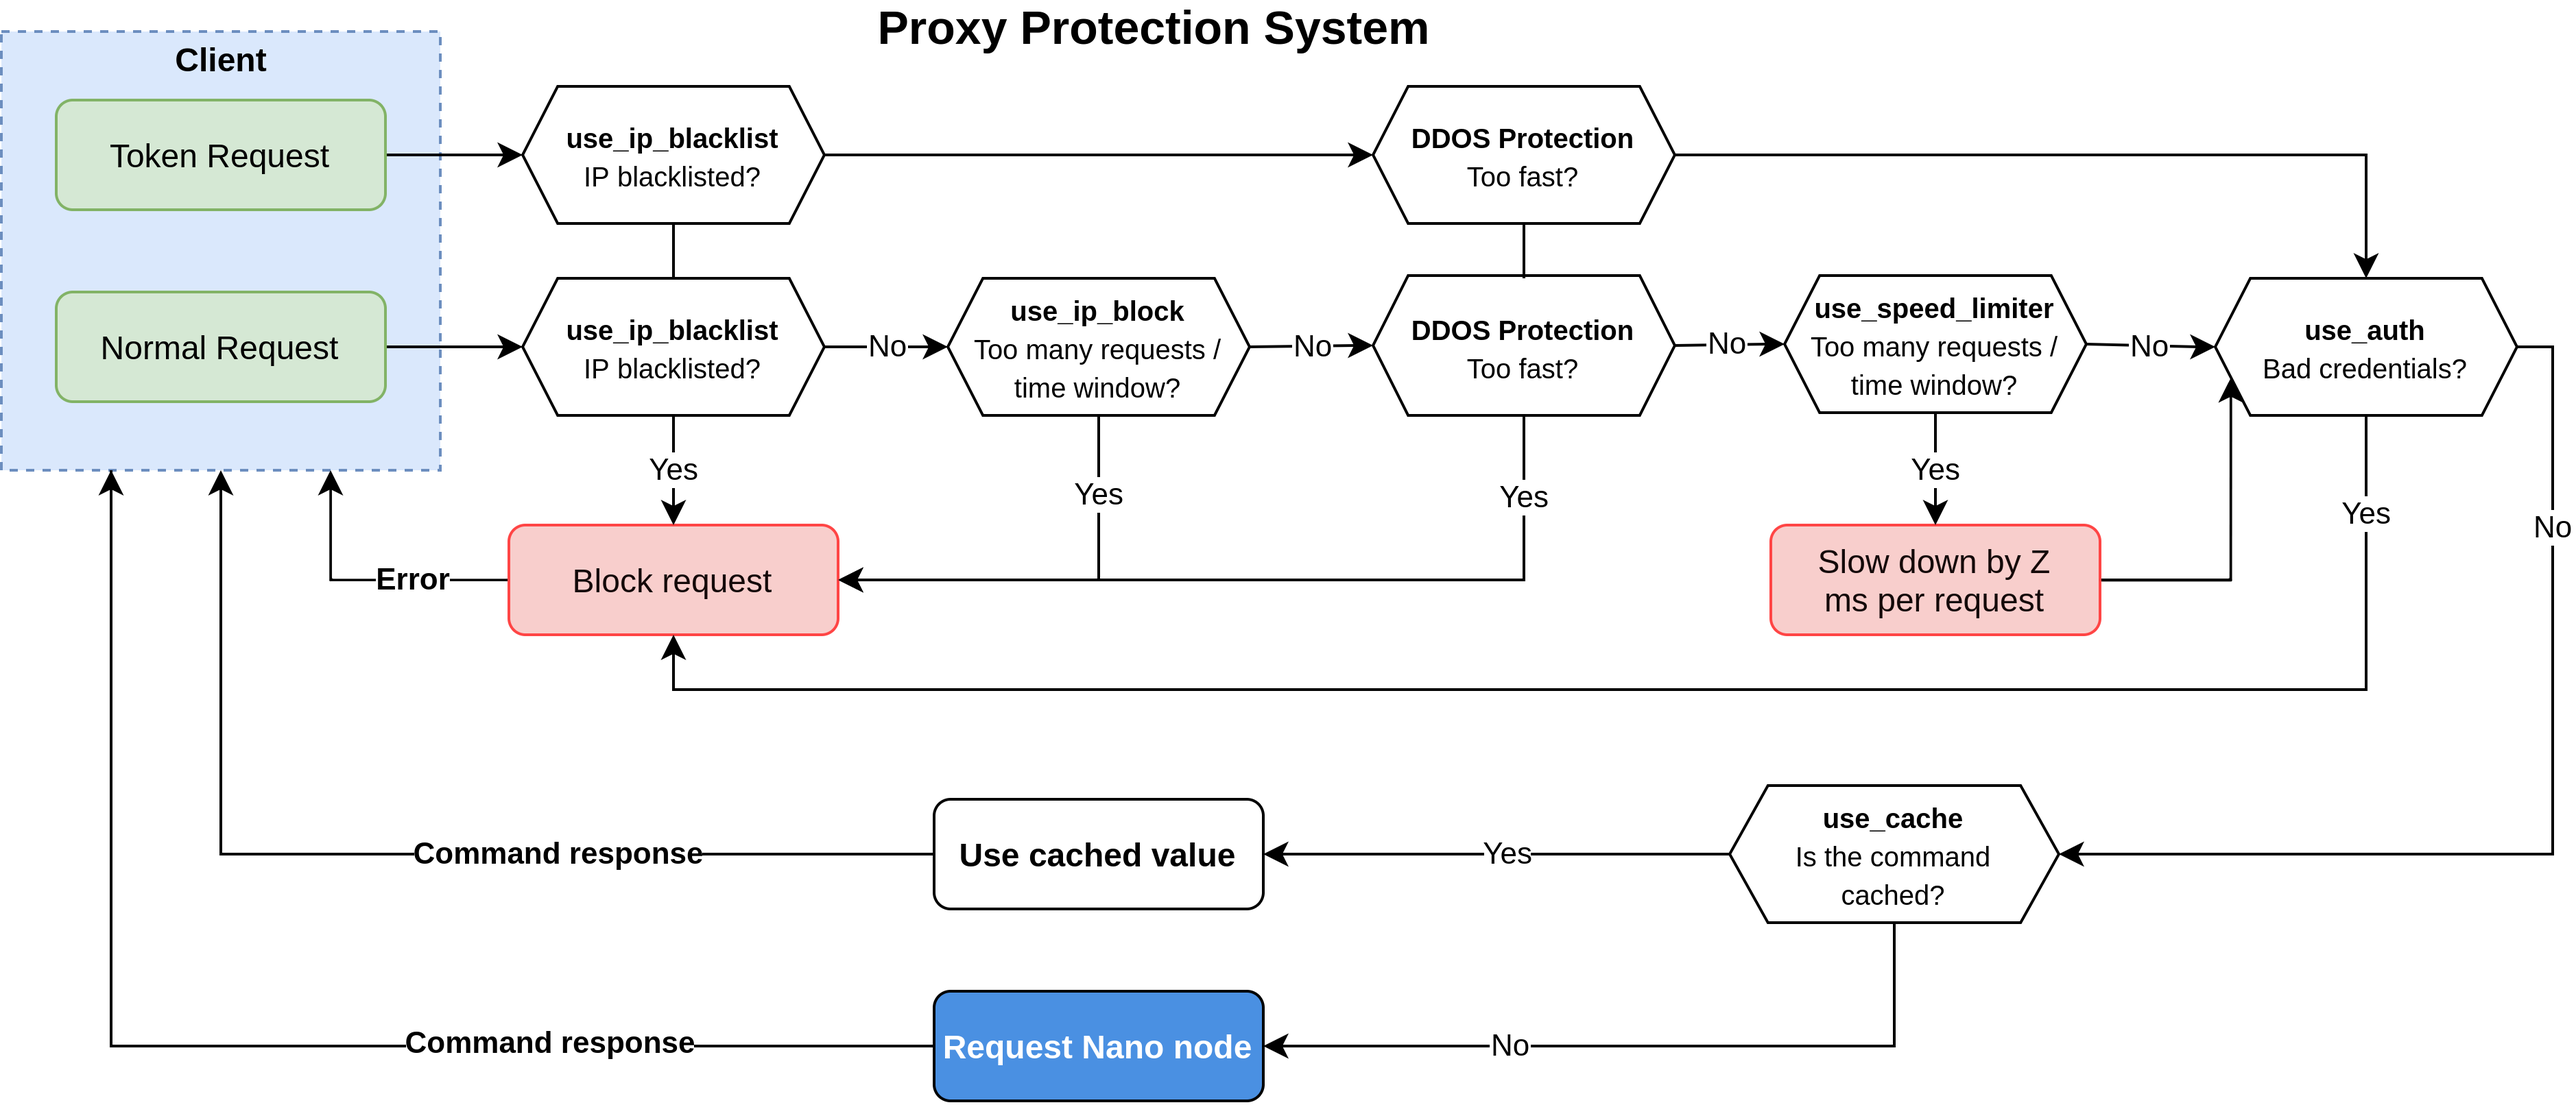
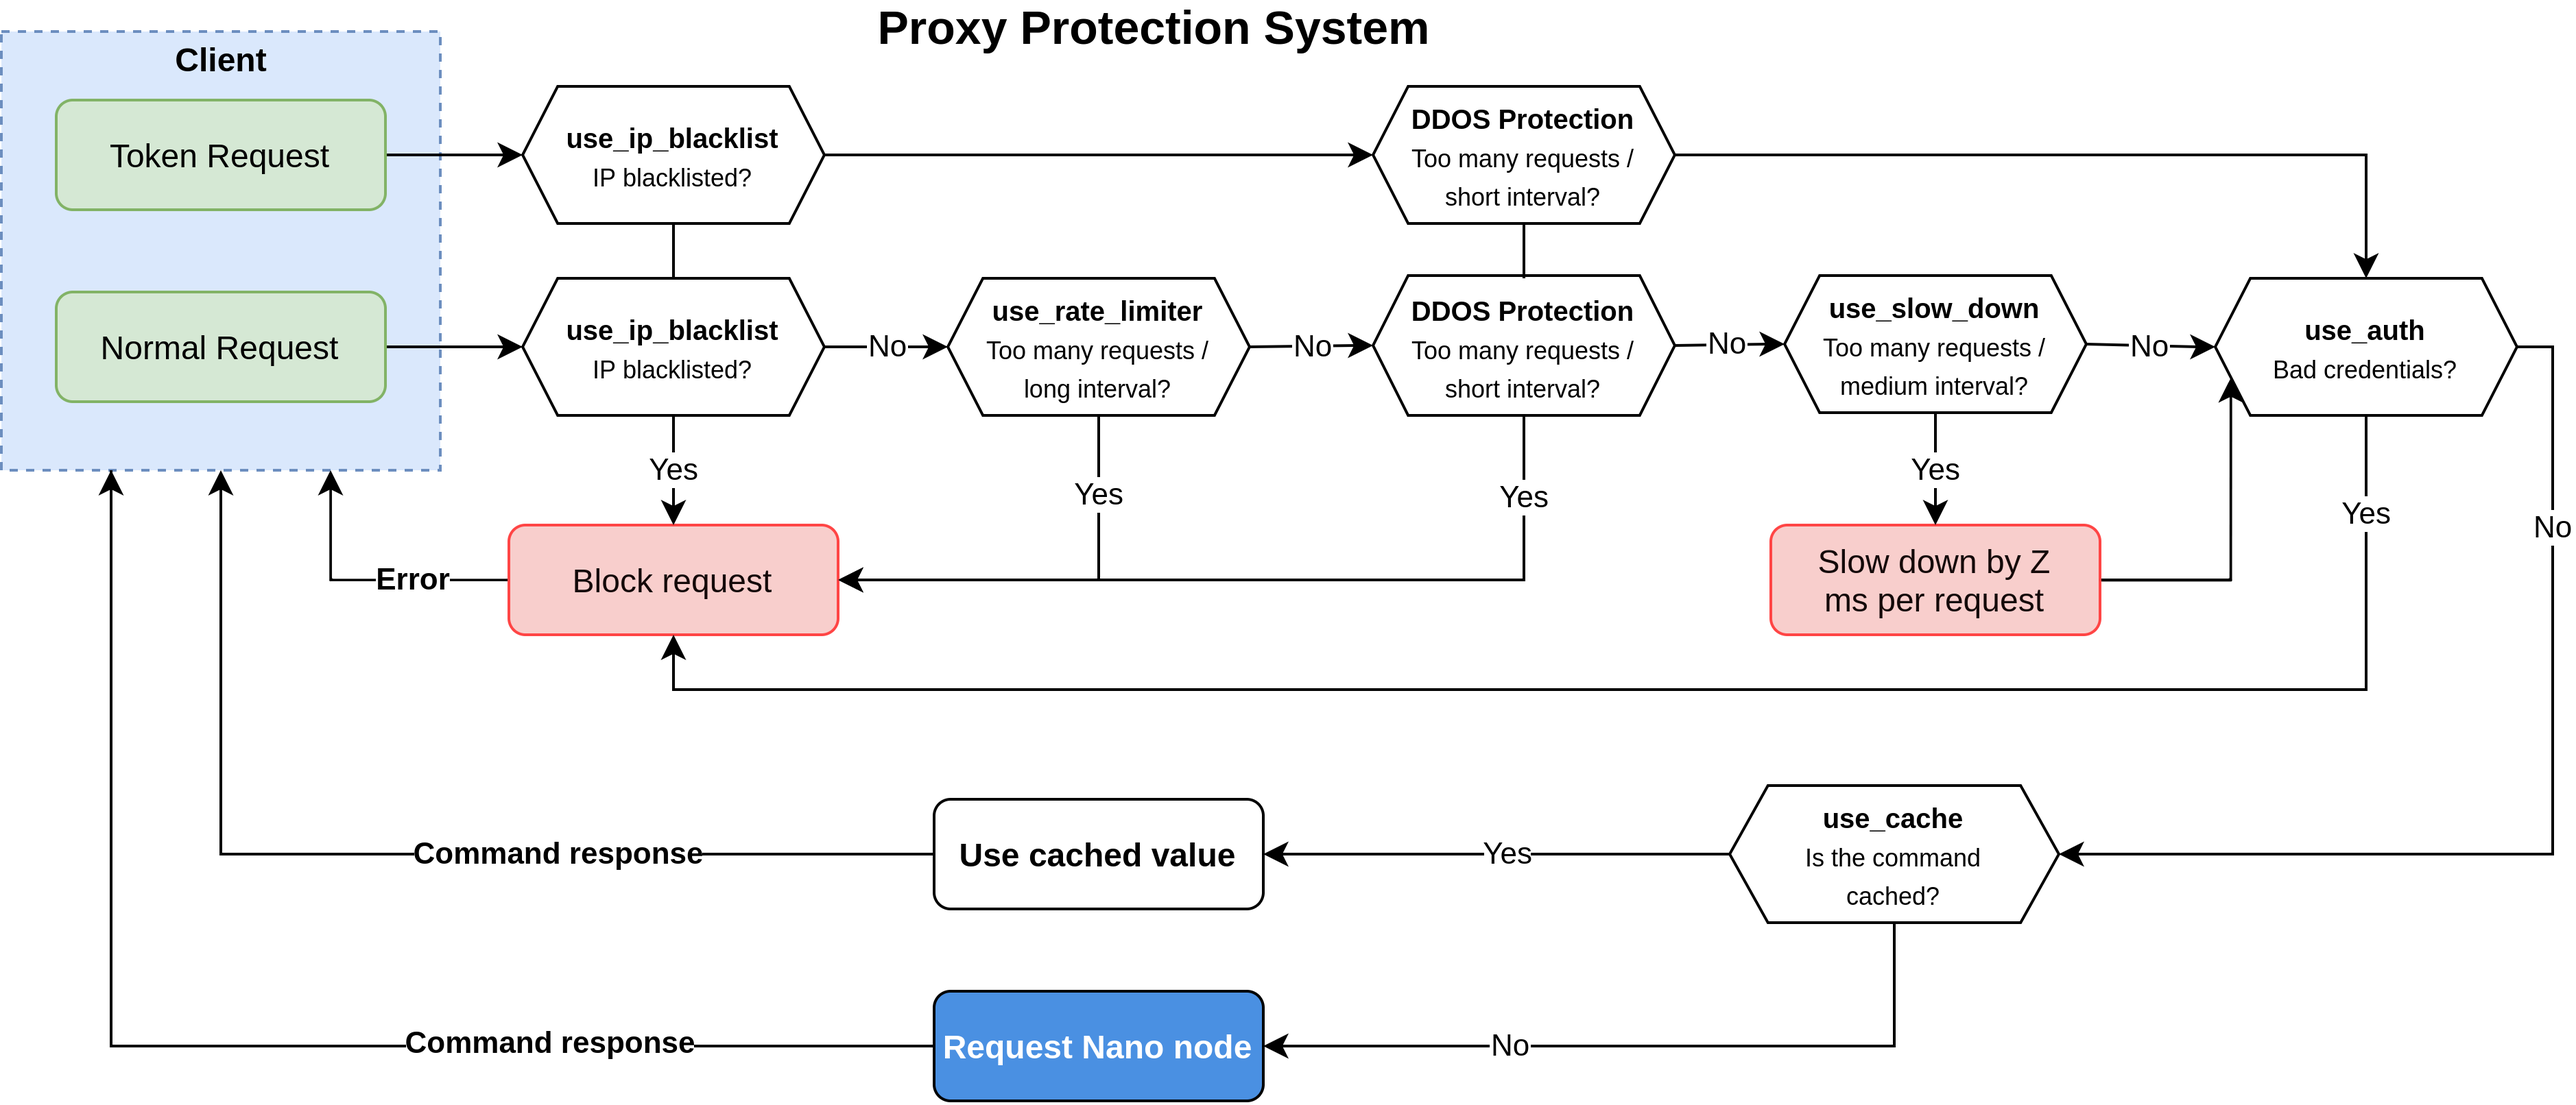
Changed parameter names

diff --git a/src/server/proxy.js b/src/server/proxy.js
@@ -31,8 +31,8 @@ var http_port = 9950                // port to listen on for http (enabled defau
 var https_port = 9951               // port to listen on for https (disabled default with use_https)
 var max_request_count = 500         // max count of various rpc responses like pending transactions
 var use_auth = false                // if require username and password when connecting to proxy
-var use_speed_limiter = false       // if slowing down IPs when they request above set limit (defined in speed_limiter)
-var use_ip_block = false            // if blocking IPs for a certain amount of time when they request above set limit (defined in ip_block)
+var use_slow_down = false           // if slowing down requests for IPs doing above set limit (defined in slow_down)
+var use_rate_limiter = false        // if blocking IPs for a certain amount of time when they request above set limit (defined in rate_limiter)
 var use_cache = false               // if caching certain commands set in cached_commands
 var use_http = true                 // listen on http (active by default)
 var use_https = false               // listen on https (inactive by default) (a valid cert and key file is needed via https_cert and https_key)
@@ -44,8 +44,8 @@ var https_key = ""                  // file path for private key file
 var allowed_commands = []           // only allow RPC actions in this list
 var cached_commands = []            // a list of commands [key] that will be cached for corresponding duration in seconds as [value]
 var limited_commands = []           // a list of commands [key] to limit the output response for with max count as [value]
-var speed_limiter = {}              // contains the settings for slowing down clients with speed limiter
-var ip_block = {}                   // contains the settings for blocking IP that does too many requests
+var slow_down = {}                  // contains the settings for the slow down filter
+var rate_limiter = {}               // contains the settings for the rate limiter
 var log_level = log_levels.none     // the log level to use (startup info is always logged): none=zero active logging, warning=only errors/warnings, info=both errors/warnings and info
 var ip_blacklist = []               // a list of IPs to deny always
 var proxy_hops = 0                  // if the NanoRPCProxy is behind other proxies such as apache or cloudflare the source IP will be wrongly detected and the filters will not work as intended. Enter the number of additional proxies here.
@@ -105,8 +105,8 @@ try {
   http_port = settings.http_port
   https_port = settings.https_port
   use_auth = settings.use_auth
-  use_speed_limiter = settings.use_speed_limiter
-  use_ip_block = settings.use_ip_block
+  use_slow_down = settings.use_slow_down
+  use_rate_limiter = settings.use_rate_limiter
   use_cache = settings.use_cache
   use_output_limiter = settings.use_output_limiter
   use_http = settings.use_http
@@ -119,8 +119,8 @@ try {
   allowed_commands = settings.allowed_commands
   limited_commands = settings.limited_commands
   log_level = settings.log_level
-  speed_limiter = settings.speed_limiter
-  ip_block = settings.ip_block
+  slow_down = settings.slow_down
+  rate_limiter = settings.rate_limiter
   ip_blacklist = settings.ip_blacklist
   proxy_hops = settings.proxy_hops
 
@@ -156,8 +156,8 @@ console.log("Node url: " + node_url)
 console.log("Http port: " + String(http_port))
 console.log("Https port: " + String(https_port))
 console.log("Use authentication: " + use_auth)
-console.log("Use speed limiter: " + use_speed_limiter)
-console.log("Use IP block: " + use_ip_block)
+console.log("Use slow down: " + use_slow_down)
+console.log("Use rate limiter: " + use_rate_limiter)
 console.log("Use cached requests: " + use_cache)
 console.log("Use output limiter: " + use_output_limiter)
 console.log("Use IP blacklist: " + use_ip_blacklist)
@@ -187,17 +187,17 @@ if (use_output_limiter) {
   console.log(log_string)
 }
 
-if (use_speed_limiter) {
-  log_string = "Speed limiter settings:\n"
-  for (const [key, value] of Object.entries(speed_limiter)) {
+if (use_slow_down) {
+  log_string = "Slow down settings:\n"
+  for (const [key, value] of Object.entries(slow_down)) {
     log_string = log_string + key + " : " + value + "\n"
   }
   console.log(log_string)
 }
 
-if (use_ip_block) {
-  log_string = "IP block settings:\n"
-  for (const [key, value] of Object.entries(ip_block)) {
+if (use_rate_limiter) {
+  log_string = "Rate limiter settings:\n"
+  for (const [key, value] of Object.entries(rate_limiter)) {
     log_string = log_string + key + " : " + value + "\n"
   }
   console.log(log_string)
@@ -280,12 +280,12 @@ if (use_auth) {
   app.use(BasicAuth({ authorizer: myAuthorizer }))
 }
 
-// Block IP if requesting too much but skipped if a valid token_key is provided
-if (use_ip_block) {
+// Block IP if requesting too much but skipped if a valid token_key is provided (long interval)
+if (use_rate_limiter) {
   const limiter1 = new RateLimiterMemory({
     keyPrefix: 'limit1',
-    points: ip_block.request_limit, // limit each IP to x requests per duration
-    duration: Math.round(ip_block.time_window/1000), // rolling time window in sec
+    points: rate_limiter.request_limit, // limit each IP to x requests per duration
+    duration: Math.round(rate_limiter.time_window/1000), // rolling time window in sec
   })
 
   const rateLimiterMiddleware1 = (req, res, next) => {
@@ -315,26 +315,24 @@ if (use_ip_block) {
     }
     limiter1.consume(req.ip)
       .then((response) => {
-        res.set("X-RateLimit-Limit", ip_block.request_limit)
-        res.set("X-RateLimit-Remaining", ip_block.request_limit-response.consumedPoints)
+        res.set("X-RateLimit-Limit", rate_limiter.request_limit)
+        res.set("X-RateLimit-Remaining", rate_limiter.request_limit-response.consumedPoints)
         res.set("X-RateLimit-Reset", new Date(Date.now() + response.msBeforeNext))
         next()
       })
       .catch((rej) => {
-        res.set("X-RateLimit-Limit", ip_block.request_limit)
-        res.set("X-RateLimit-Remaining", Math.max(ip_block.request_limit-rej.consumedPoints, 0))
+        res.set("X-RateLimit-Limit", rate_limiter.request_limit)
+        res.set("X-RateLimit-Remaining", Math.max(rate_limiter.request_limit-rej.consumedPoints, 0))
         res.set("X-RateLimit-Reset", new Date(Date.now() + rej.msBeforeNext))
-        res.status(429).send('Max allowed requests of ' + ip_block.request_limit + ' reached. Time left: ' + Math.round(rej.msBeforeNext/1000) + 'sec')
+        res.status(429).send('Max allowed requests of ' + rate_limiter.request_limit + ' reached. Time left: ' + Math.round(rej.msBeforeNext/1000) + 'sec')
       })
    }
 
    app.use(rateLimiterMiddleware1)
 }
 
-// Ddos protection for all requests
+// Ddos protection for all requests (short interval)
 const limiter2 = new RateLimiterMemory({
-  //points: ip_block.request_limit, // limit each IP to x requests per duration
-  //duration: Math.round(ip_block.time_window / 1000), // rolling time window in sec
   keyPrefix: 'limit2',
   points: DDOS_LIMIT_COUNT, // limit each IP to x requests per duration
   duration: DDOS_LIMIT_WINDOW, // rolling time window in sec
@@ -353,12 +351,12 @@ const rateLimiterMiddleware2 = (req, res, next) => {
  app.use(rateLimiterMiddleware2)
 
 // Limit by slowing down requests
-if (use_speed_limiter) {
-  const speed_limiter_settings = SlowDown({
-    windowMs: speed_limiter.time_window, // rolling time window in ms
-    delayAfter: speed_limiter.request_limit, // allow x requests per time window, then start slowing down
-    delayMs: speed_limiter.delay_increment, // begin adding X ms of delay per request when delayAfter has been reached
-    maxDelayMs: speed_limiter.max_delay, // max delay in ms to slow down
+if (use_slow_down) {
+  const slow_down_settings = SlowDown({
+    windowMs: slow_down.time_window, // rolling time window in ms
+    delayAfter: slow_down.request_limit, // allow x requests per time window, then start slowing down
+    delayMs: slow_down.delay_increment, // begin adding X ms of delay per request when delayAfter has been reached
+    maxDelayMs: slow_down.max_delay, // max delay in ms to slow down
     // skip limit for certain requests
     skip: function(req, res) {
       if (use_tokens) {
@@ -385,7 +383,7 @@ if (use_speed_limiter) {
       return false
     }
   })
-  app.use(speed_limiter_settings)
+  app.use(slow_down_settings)
 }
 
 // Set up cache

diff --git a/README.md b/README.md
@@ -144,8 +144,8 @@ The proxy server is configured via the **settings.json** file found in the serve
 * **http_port:** Port to listen on for http (enabled default with the setting <use_http>) [number]
 * **https_port:** Port to listen on for https (disabled default with the setting <use_https>) [number]
 * **use_auth:** If require username and password when connecting to the proxy. Defined in **creds.json** [true/false]
-* **use_speed_limiter:** If slowing down IPs when they request above set limit (defined in <speed_limiter>) [true/false]
-* **use_ip_block:** If blocking IPs for a certain amount of time when they request above set limit (defined in <ip_block>). This request limit, requests remaining and timestamp for reset will also be included in the response header as "X-RateLimit-Limit", "X-RateLimit-Remaining", and "X-RateLimit-Reset". Additionally included in the json response as well as "requestsLimit", "requestsRemaining" and "requestLimitReset". For example if 1000 / day is allowed for free, the user will see how many are left to use. [true/false]
+* **use_slow_down:** If slowing down requests for IPs doing above set limit (defined in <slow_down>) [true/false]
+* **use_rate_limiter:** If blocking IPs for a certain amount of time when they request above set limit (defined in <rate_limiter>). This request limit, requests remaining and timestamp for reset will also be included in the response header as "X-RateLimit-Limit", "X-RateLimit-Remaining", and "X-RateLimit-Reset". Additionally included in the json response as well as "requestsLimit", "requestsRemaining" and "requestLimitReset". For example if 1000 / day is allowed for free, the user will see how many are left to use. This filter is skipped when using tokens. [true/false]
 * **use_cache:** If caching certain commands set in <cached_commands> [true/false]
 * **use_http:** Listen on http [true/false]
 * **use_https:** Listen on https (a valid cert and key file is needed via <https_cert> and <https_key>) [true/false]
@@ -158,8 +158,8 @@ The proxy server is configured via the **settings.json** file found in the serve
 * **cached_commands:** A list of commands [key] that will be cached for corresponding duration in seconds as [value]
 * **limited_commands:** A list of commands [key] to limit the output response for with max count as [value]
 * **ip_blacklist:** A list of IPs to always block. If calling from localhost you can test this with 127.0.0.1 (::ffff:127.0.0.1 for ipv6)
-* **speed_limiter:** Contains the settings for slowing down clients. The rolling time slot is defined with <time_window> [ms]. When number of requests in that slot is exceeding <request_limit> it will start slowing down requests with increments of <delay_increment> [ms] with a maximum total delay defined in <max_delay> [ms]
-* **ip_block:** Contains the settings for blocking IPs when they request too much. The rolling time slot is defined with <time_window> [ms]. When number of requests in that slot is exceeding <request_limit> it will block the IP until the time slot has passed. Then the IP can start requesting again. To permanently ban IPs they have to be manually added to <ip_blacklist> and activating <use_ip_blacklist>. The token system is disabled by default.
+* **slow_down:** Contains the settings for slowing down requests. The rolling time slot is defined with <time_window> [ms]. When number of requests in that slot is exceeding <request_limit> it will start slowing down requests with increments of <delay_increment> [ms] with a maximum total delay defined in <max_delay> [ms]
+* **rate_limiter:** Contains the settings for the rate limiter. The rolling time slot is defined with <time_window> [ms]. When number of requests in that slot is exceeding <request_limit> it will block the IP until the time slot has passed. Then the IP can start requesting again. To permanently ban IPs they have to be manually added to <ip_blacklist> and activating <use_ip_blacklist>.
 * **proxy_hops** If the NanoRPCProxy is behind other proxies such as apache or cloudflare the source IP will be wrongly detected and the filters will not work as intended. Enter the number of additional proxies here. Example: api.example.com is proxied through Cloudflare to IP 1.1.1.1 and then local Nginx server is proxying api.example.com to localhost:9950. Proxyhops will be 2.
 * **log_level:** It can be set to either "info" which will output all logs, "warning" which will only output warning messages or "none" which will only log the initial settings.
 
